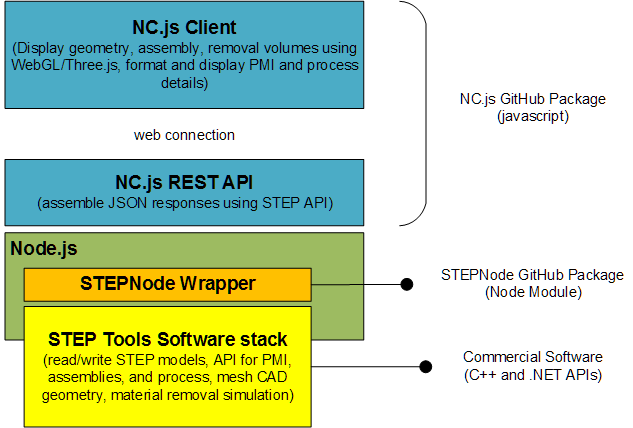
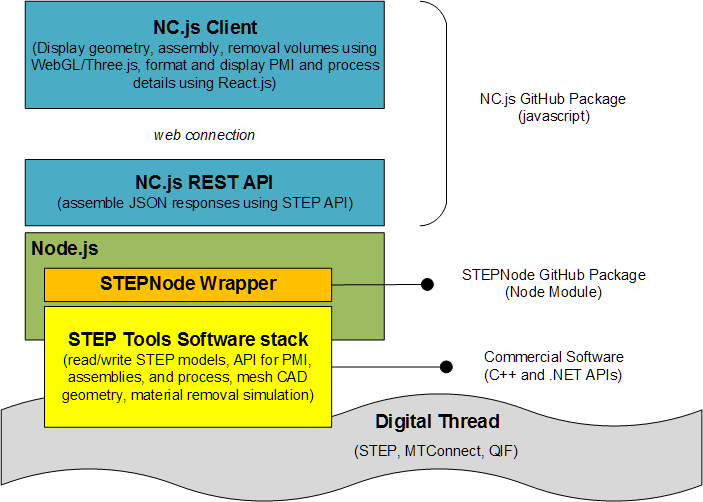
more documentation fine tuning

diff --git a/docs/index.md b/docs/index.md
@@ -7,19 +7,22 @@ well as removal simulation, PMI annotations, MTConnect positional
 data, QIF face status, and other aspects of a Digital Twin on the
 Digital Thread.
 
-
-
  - [REST API Description](API.md)
  - [Contents of serialized STEP data](formats.md)
  - [Internal software layout](GettingStarted.md)
 
 ## Package Structure
 
-The software is implemented in Javascript under the Apache license, so
-the client and REST API may be customized as desired.  On the server,
-the REST API is implemented using the STEPNode native Node.js wrapper
-for the STEP Tools commercial technology stack, which handles STEP and
-STEP-NC read/write, analysis, geometry manipulation, and material
-removal simulation.
+The NC.js package is implemented in Javascript under the Apache
+license, so the client and REST API may be customized as desired.  As
+the diagram below shows, the server implements the REST API using the
+STEPNode module for Node.js.  This module wraps the STEP Tools
+commercial technology stack, which is a set of native libraries for
+Windows/Linux/Mac that reads and writes STEP and STEP-NC models, does
+analysis, geometry manipulation, and material removal simulation.
 
-![Screenshot](images/ncjs_structure.png "NC.js Screenshot")
+ - [NC.js Github Package](https://github.com/steptools/NC.js)
+ - [STEPNode Github Package](https://github.com/steptools/STEPNode)
+ - [STEP Tools Software Stack](https://www.steptools.com/support/)
+
+![NC.js Structure](images/ncjs_structure.png "NC.js Structure")

diff --git a/README.md b/README.md
@@ -7,19 +7,19 @@ well as removal simulation, PMI annotations, MTConnect positional
 data, QIF face status, and other aspects of a Digital Twin on the
 Digital Thread.
 
-The software is implemented in Javascript under the Apache license, so
-the client and REST API may be customized as desired.  On the server,
-the REST API is implemented using the STEPNode native Node.js wrapper
-for the STEP Tools commercial technology stack, which handles STEP and
-STEP-NC read/write, analysis, geometry manipulation, and material
-removal simulation.
+This software Javascript under the Apache license, so that you can
+customize the client and REST API as desired.  On the server, the REST
+API uses the STEPNode native Node.js wrapper for the STEP Tools
+commercial technology stack, which handles STEP and STEP-NC
+read/write, analysis, geometry manipulation, and material removal
+simulation.
 
  - [NC.js Documentation](docs/index.md)
 
 ![Screenshot](docs/images/fishhead.png "NC.js Screenshot")
 
 
-## Setting up a development environment
+## Getting Started
 
   1. Download NC.js:
 
